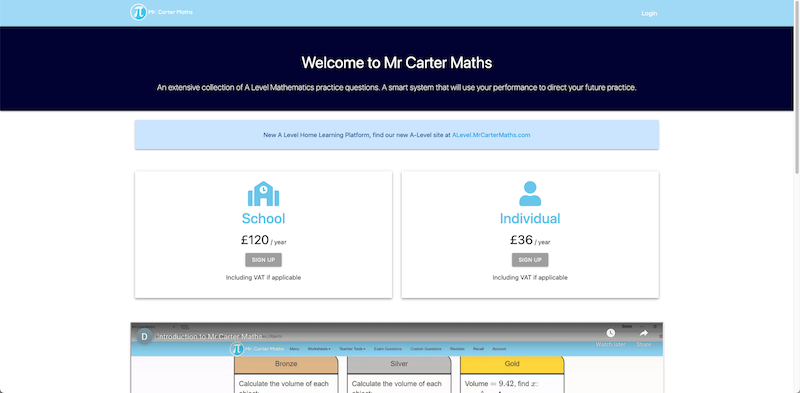
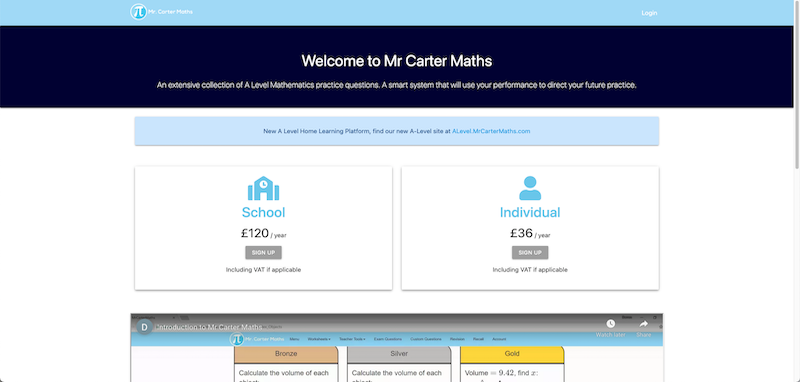
Rescaled card images to 800X382

diff --git a/src/styles.js b/src/styles.js
@@ -65,9 +65,8 @@ export const StyledCard = styled(motion.header)`
 
 export const StyledCardHeader = styled(motion.div)`
   img {
-    width: 100%;
-    max-height: 100%;
-    object-fit: cover;
+    height: auto;
+    background-size: contain;
   }
 `;
 
